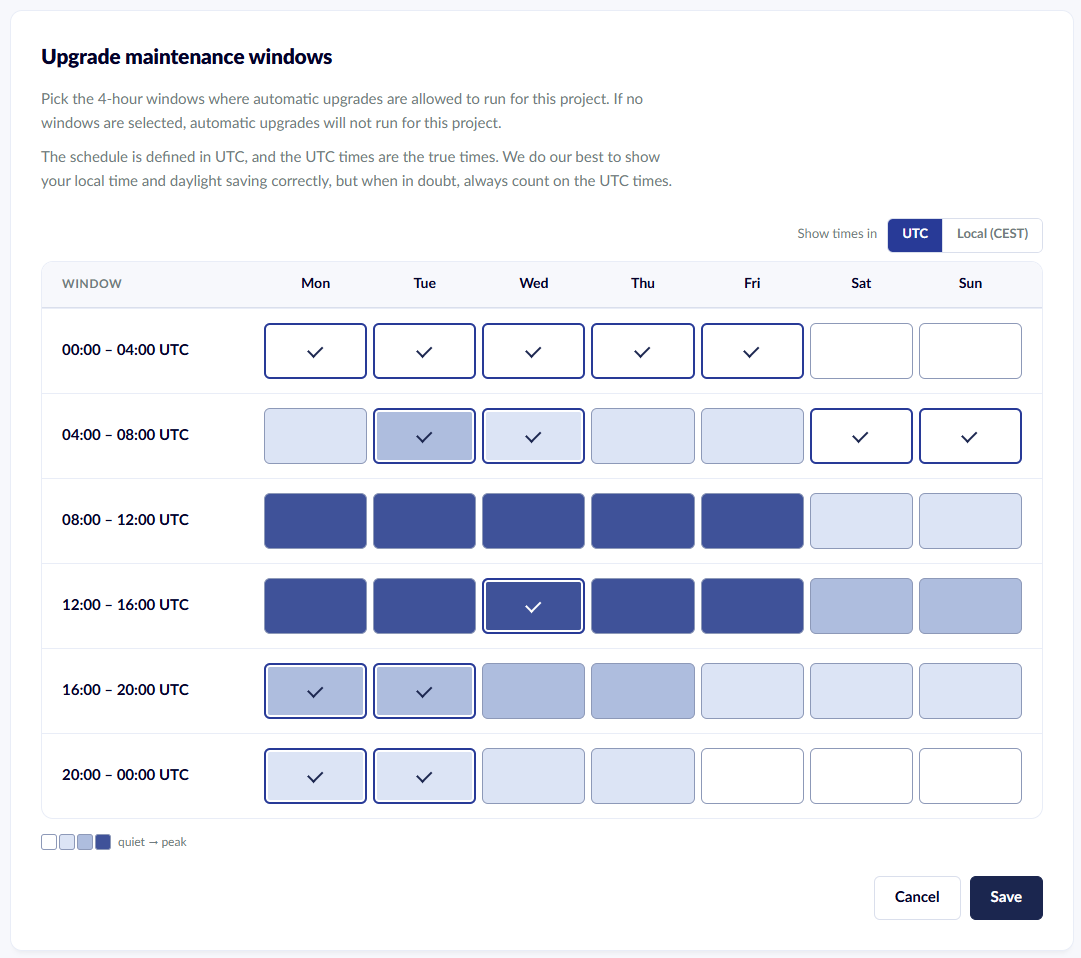
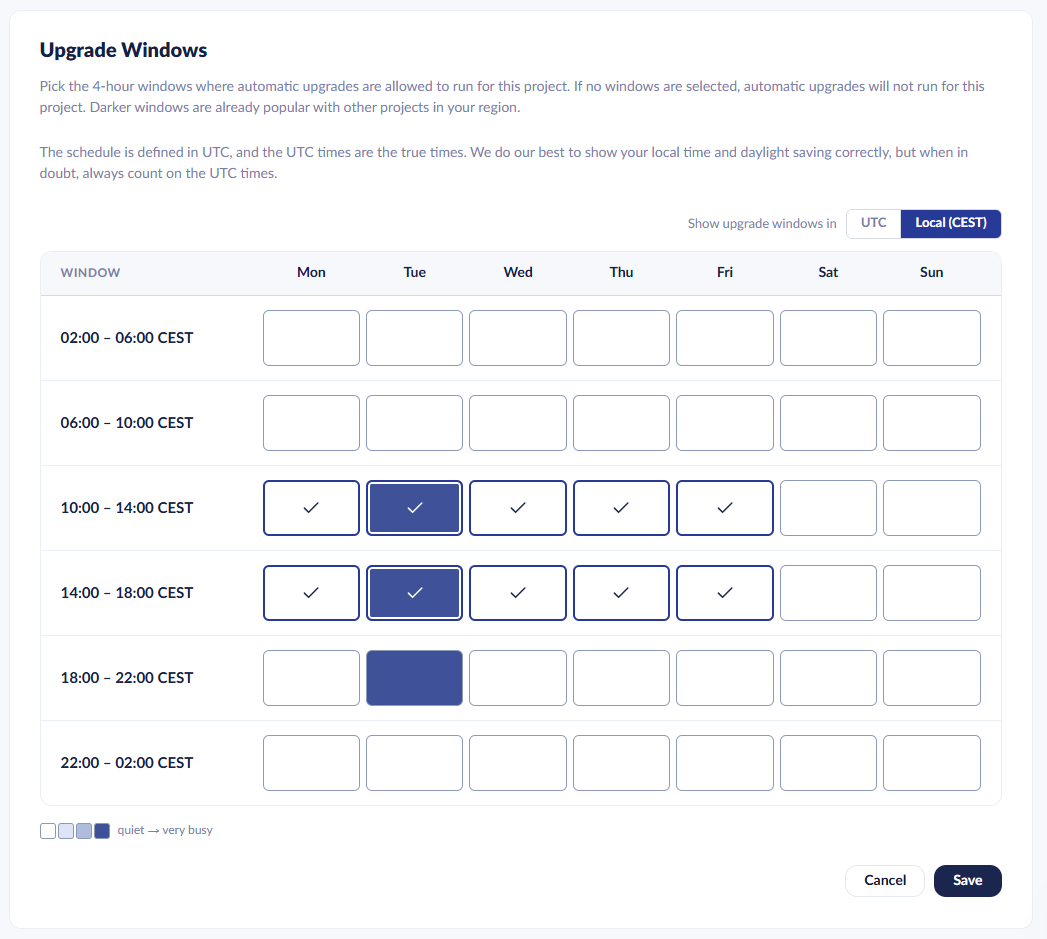
Cloud: Update upgrade window picker screenshot and labels
Replace the picker screenshot with the current UI and align the
documented heading, toggle label, and shading legend with it.

AI-assisted: drafted with Claude Code.

diff --git a/umbraco-cloud/optimize-and-maintain-your-site/manage-product-upgrades/product-upgrades/minor-upgrades.md b/umbraco-cloud/optimize-and-maintain-your-site/manage-product-upgrades/product-upgrades/minor-upgrades.md
@@ -78,13 +78,13 @@ Selecting several windows does not lead to several upgrades. Each release is app
 
 1. Go to your Umbraco Cloud project.
 2. Navigate to **Configuration** -> **Automatic Upgrades**.
-3. Select the windows where automatic upgrades are allowed to start under **Upgrade windows**.
-   * Use **Show times in** to switch between UTC and your local time. The UTC times are the times the schedule uses.
+3. Select the windows where automatic upgrades are allowed to start under **Upgrade Windows**.
+   * Use **Show upgrade windows in** to switch between UTC and your local time. The UTC times are the times the schedule uses.
 4. Select **Save**.
 
-<figure><img src="../../../.gitbook/assets/automatic-upgrade-windows.png" alt="Picker for upgrade windows showing a weekly grid of 4-hour windows in UTC, with selected windows checked and windows shaded from quiet to peak"><figcaption><p>Selecting upgrade windows for automatic upgrades</p></figcaption></figure>
+<figure><img src="../../../.gitbook/assets/automatic-upgrade-windows.png" alt="Picker for upgrade windows showing a weekly grid of 4-hour windows in local time, with selected windows checked and windows shaded from quiet to very busy"><figcaption><p>Selecting upgrade windows for automatic upgrades</p></figcaption></figure>
 
-The picker shades each window by how busy the platform currently is, from quiet to peak. Selecting quieter windows lowers the risk of an upgrade being postponed.
+The picker shades each window by how popular it is with other projects in your region, from quiet to very busy. Selecting quieter windows lowers the risk of an upgrade being postponed.
 
 ### When an Upgrade Is Postponed
 
